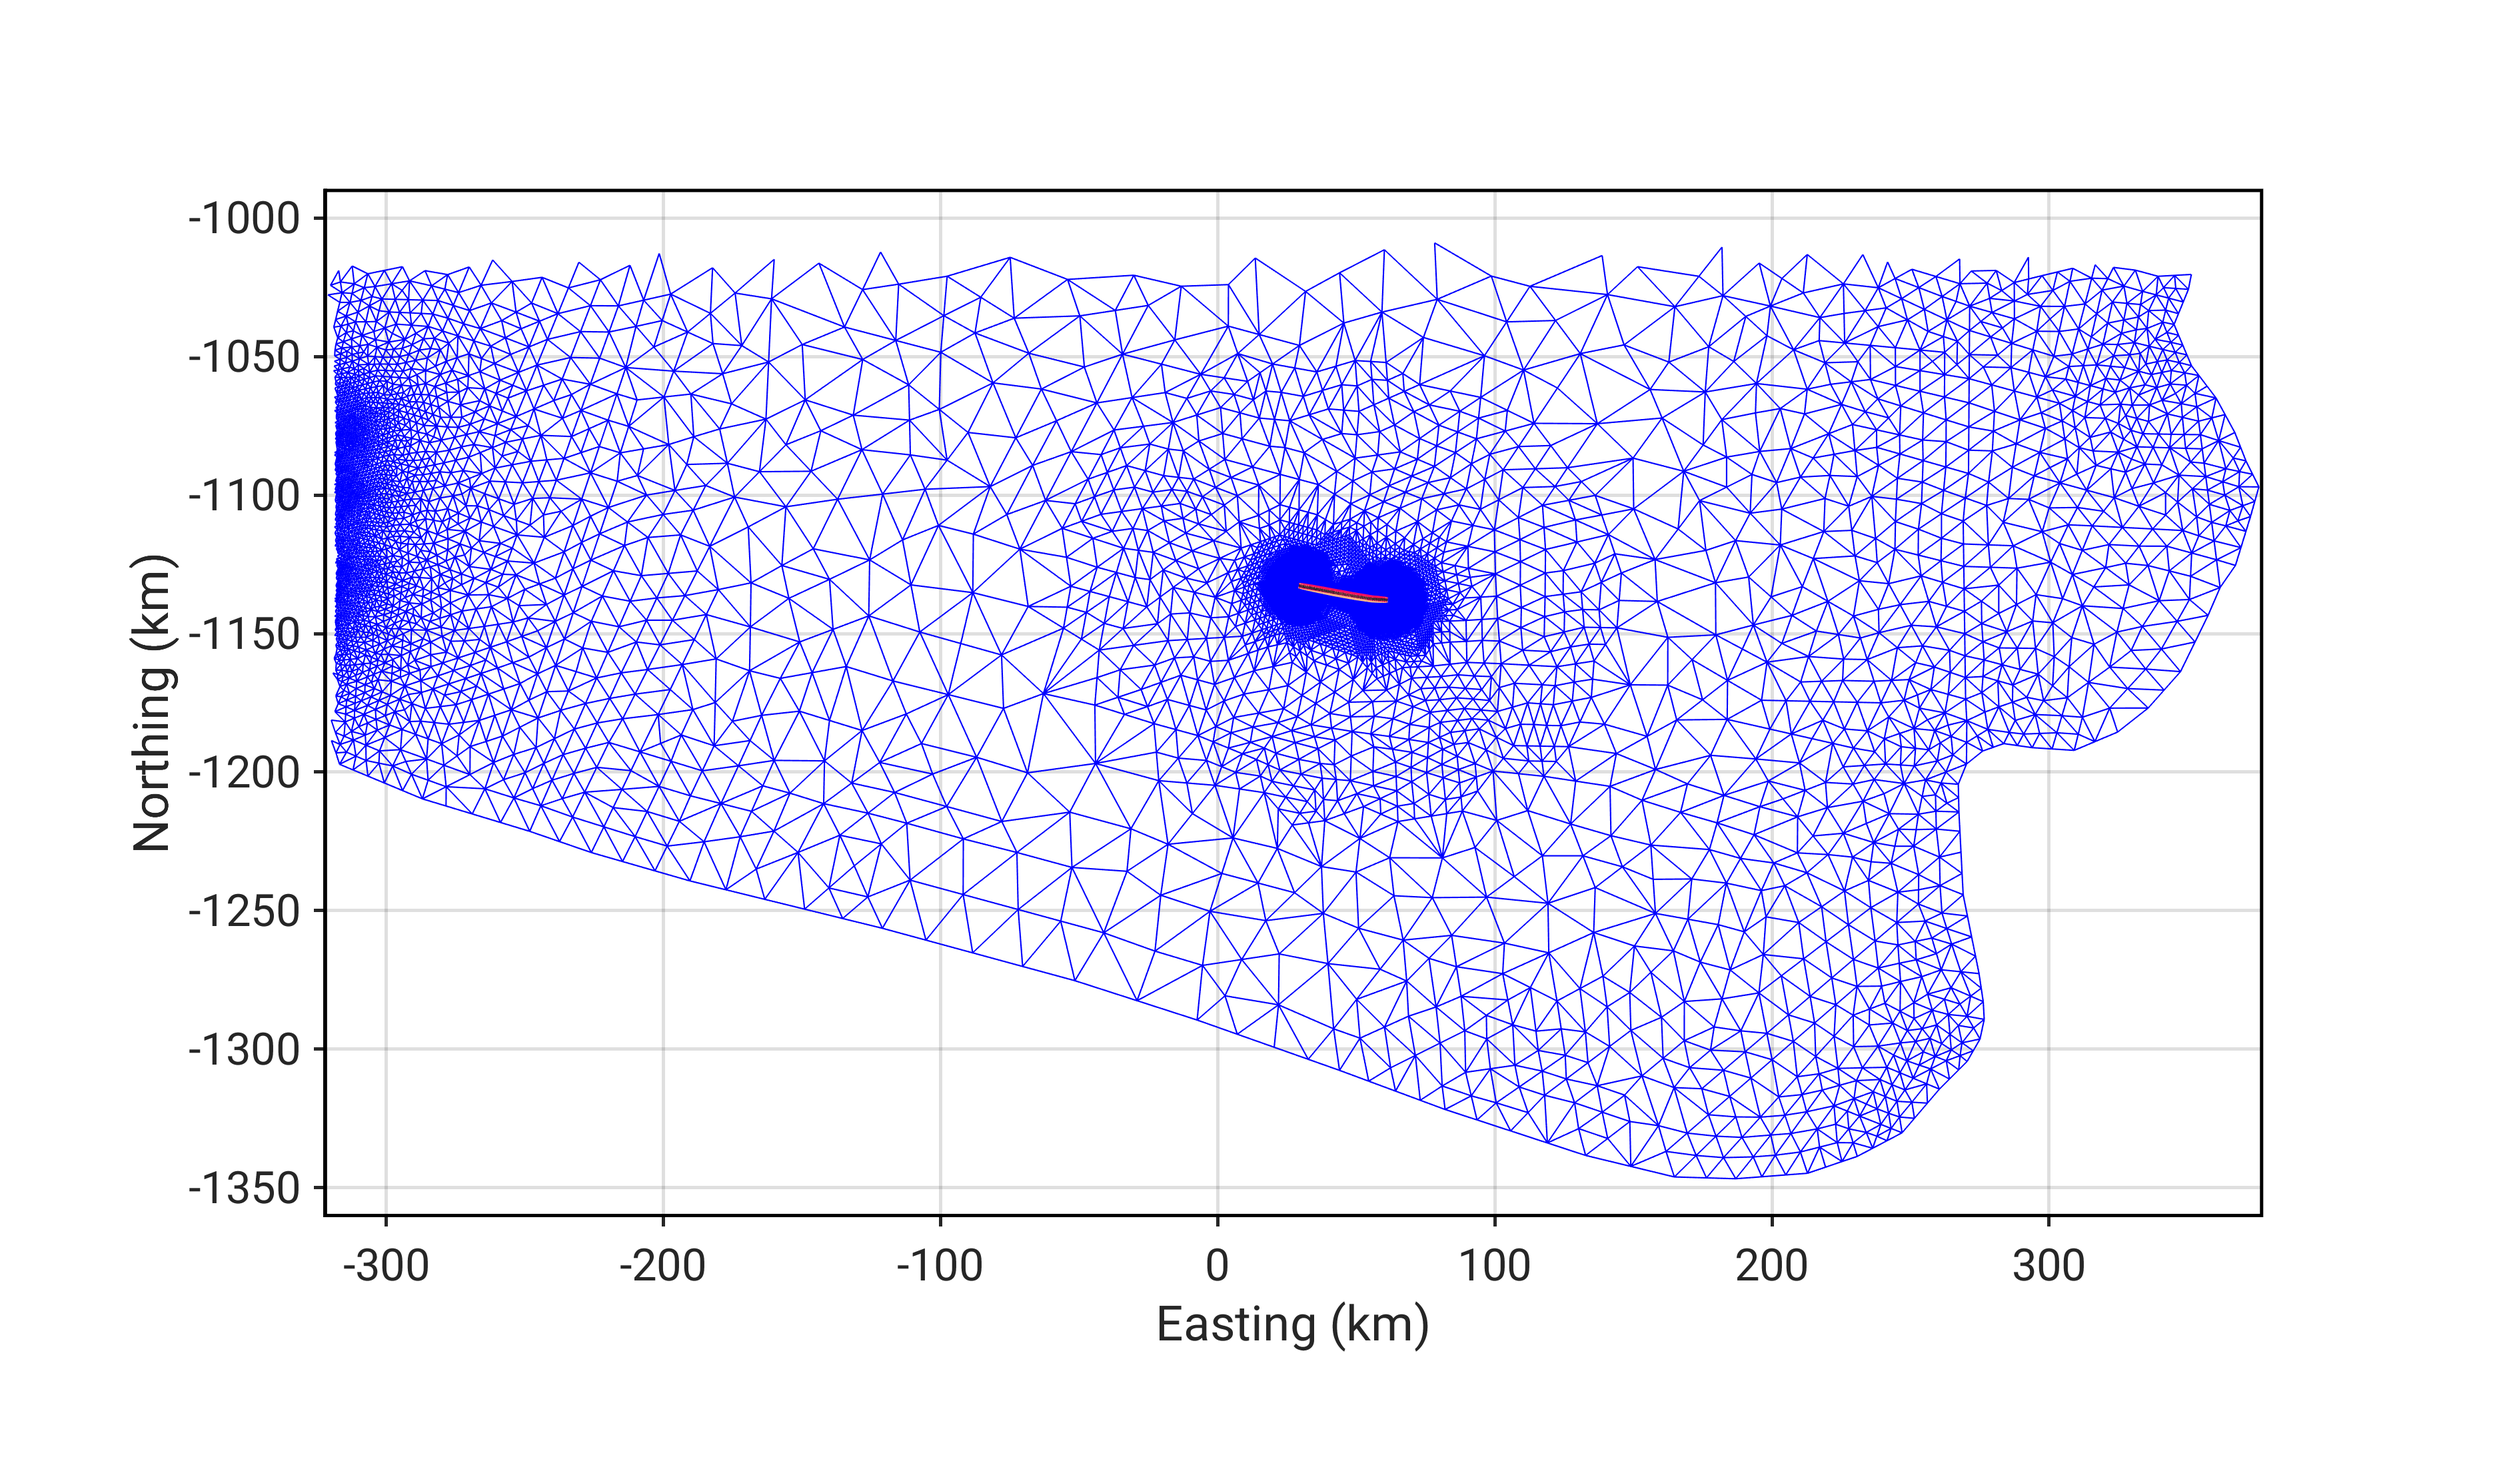
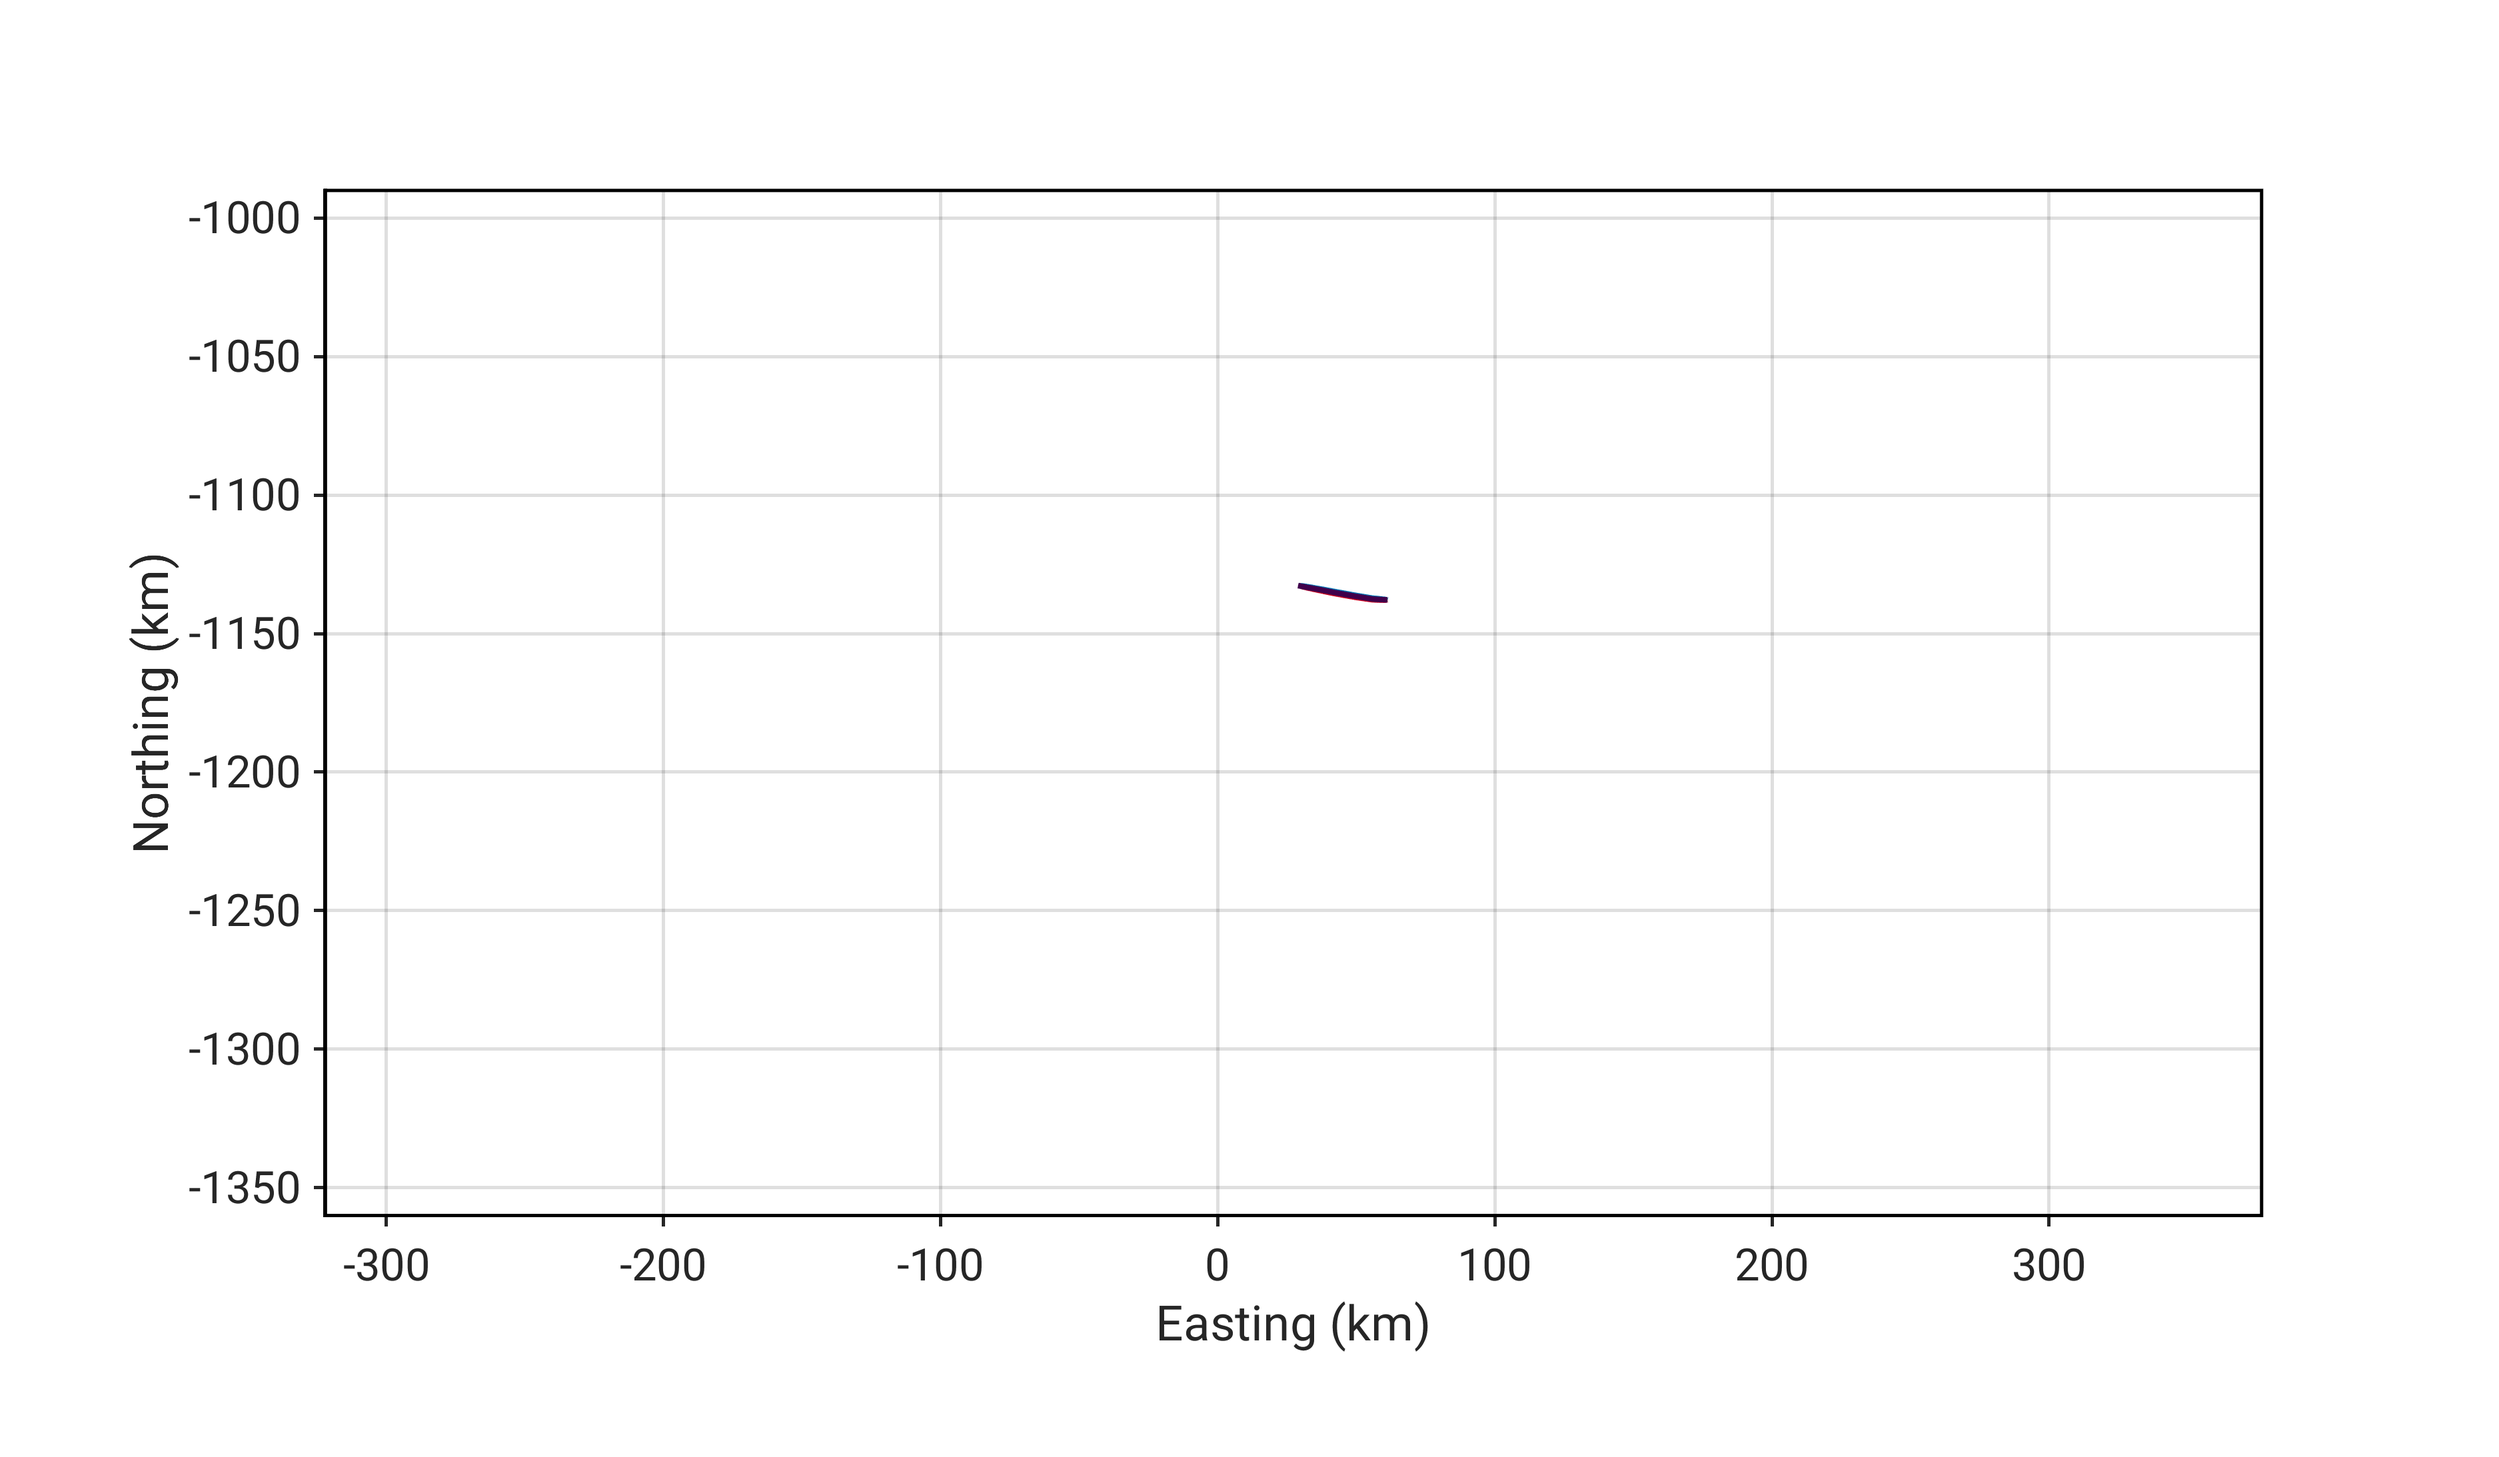
minor changes

Changed region(s): [[0.1248, 0.1866, 0.9048, 0.8084]]

diff --git a/Testcases/FINAL_ISSM2/run_post_process_pres.m b/Testcases/FINAL_ISSM2/run_post_process_pres.m
@@ -21,7 +21,7 @@ global E C nu P
 global melange
 melange = 0
 melangeforce = 0
-E = 9.6e9; nu = 0.3; P = 1 ;
+E = 9.6e9; nu = 0.33; P = 1 ;
 elemType = 'T3';
 sigmato = P ;
 stressState = 'PlaneStrain' ;
@@ -58,8 +58,8 @@ for i = 1:length(ld)
   t2 = [t2,ThetaInc{2}];
 end
 
-  zoom_dim(1,:) = [min(xCr.coor(:,1))-5000,max(xCr.coor(:,1))+5000];
-  zoom_dim(2,:) = [min(xCr.coor(:,2))-5000,max(xCr.coor(:,2))+5000];
+  zoom_dim(1,:) = [min(xCr.coor(:,1))-3000,max(xCr.coor(:,1))+3000];
+  zoom_dim(2,:) = [min(xCr.coor(:,2))-3000,max(xCr.coor(:,2))+3000];
 
 
 %plots of the first time-step
@@ -70,8 +70,8 @@ if 0
   TR = triangulation(element,node);
   zoom_dim(1,:) = [min(xCrk.coor(:,1))-5000,max(xCrk.coor(:,1))+5000];
   zoom_dim(2,:) = [min(xCrk.coor(:,2))-5000,max(xCrk.coor(:,2))+5000];
-  [ca,cax,cay] = plotFieldXfemT3_pp(xCrk,pos,enrichNode,crackNode,u,...
-    elemCrk,vertexElem,cornerElem,splitElem,tipElem,xVertex,xTip,typeElem,66) ;
+  %[ca,cax,cay] = plotFieldXfemT3_pp(xCrk,pos,enrichNode,crackNode,u,...
+    %elemCrk,vertexElem,cornerElem,splitElem,tipElem,xVertex,xTip,typeElem,66) ;
   fu = full(u);
   numnode = length(node);
   Stdux = fu(1:2:2*numnode) ;
@@ -118,8 +118,8 @@ if 1
   lname = [dname,'/crack1.mat']; 
   load(lname)
   TR = triangulation(element,node);
-  plotFieldXfemT3_pp(xCrk,pos,enrichNode,crackNode,u,...
-    elemCrk,vertexElem,cornerElem,splitElem,tipElem,xVertex,xTip,typeElem,1);
+  %plotFieldXfemT3_pp(xCrk,pos,enrichNode,crackNode,u,...
+    %elemCrk,vertexElem,cornerElem,splitElem,tipElem,xVertex,xTip,typeElem,1);
   fu = full(u);
   numnode = length(node);
   Stdux = fu(1:2:2*numnode) ;
@@ -133,10 +133,10 @@ if 1
   %xCrk(1).coor(1,:)=[];
   [crackLips,flagP,elemGap] = f_find_cracklips( u, xCrk, 1, [], typeElem, elemCrk, xTip,xVertex,enrichNode,crackNode,pos,splitElem, vertexElem, tipElem);
   dfac = 1 ;
-  triplot(TR);
+  %triplot(TR);
   hold on
   axis equal;
-  f_plotCrack_pp(crackLips,mag)
+  f_plotCrack_pp(crackLips,mag,xCr_original)
   ylabel('Northing (km)');
   xlabel('Easting (km)');
   ax = gca();

diff --git a/Testcases/FINAL_ISSM2/testcase_pressure.m b/Testcases/FINAL_ISSM2/testcase_pressure.m
@@ -75,7 +75,7 @@ copyfile('testcase_pressure.m',[results_path,'/']);
 path(path,'/home/antarctica/Softs/ameshref/refinement/')
 run_mesh_prep
 %% Material properties and crack dimensions
-E = 9.6e9; nu = 0.3; P = 1 ;
+E = 9.6e9; nu = 0.33; P = 1 ;
 sigmato = P ;
 if( strcmp(stressState,'PlaneStress') )
     C = E/(1-nu^2)*[1 nu 0; nu 1 0; 0 0 (1-nu)/2];
